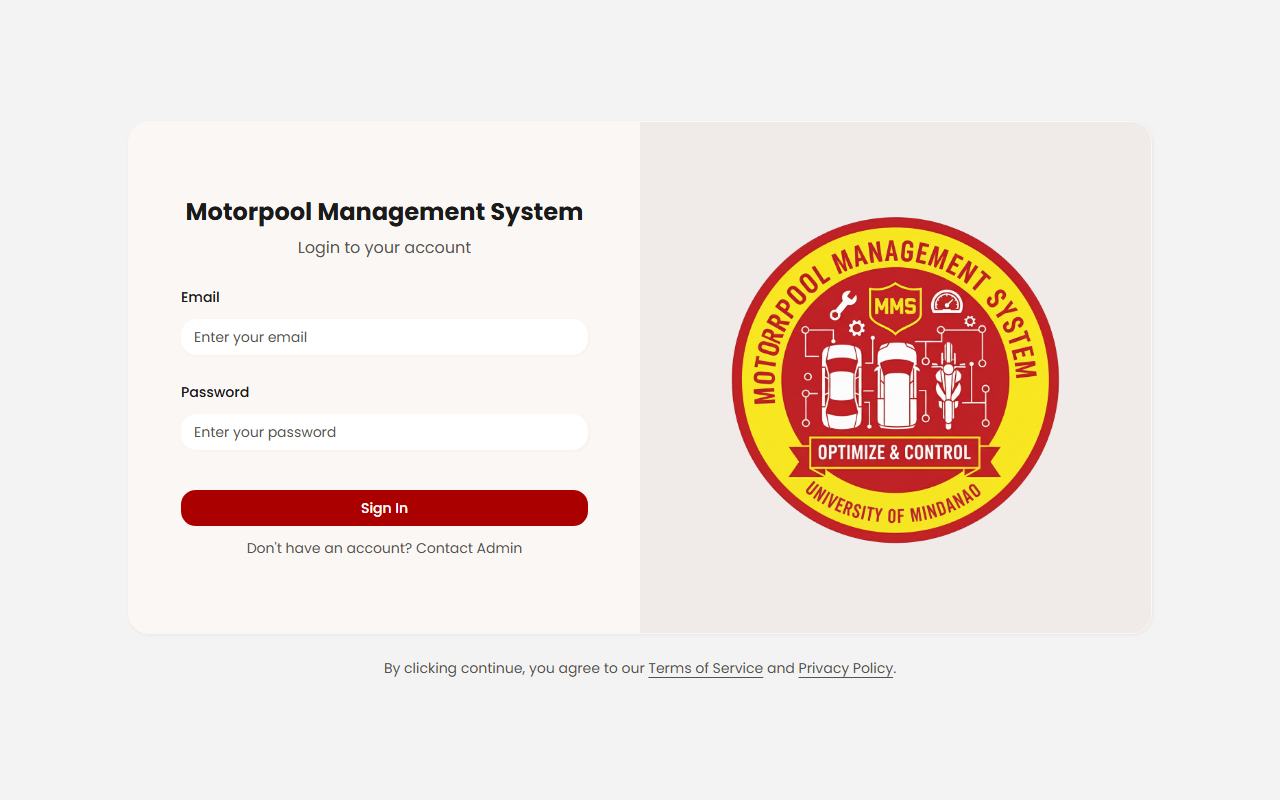
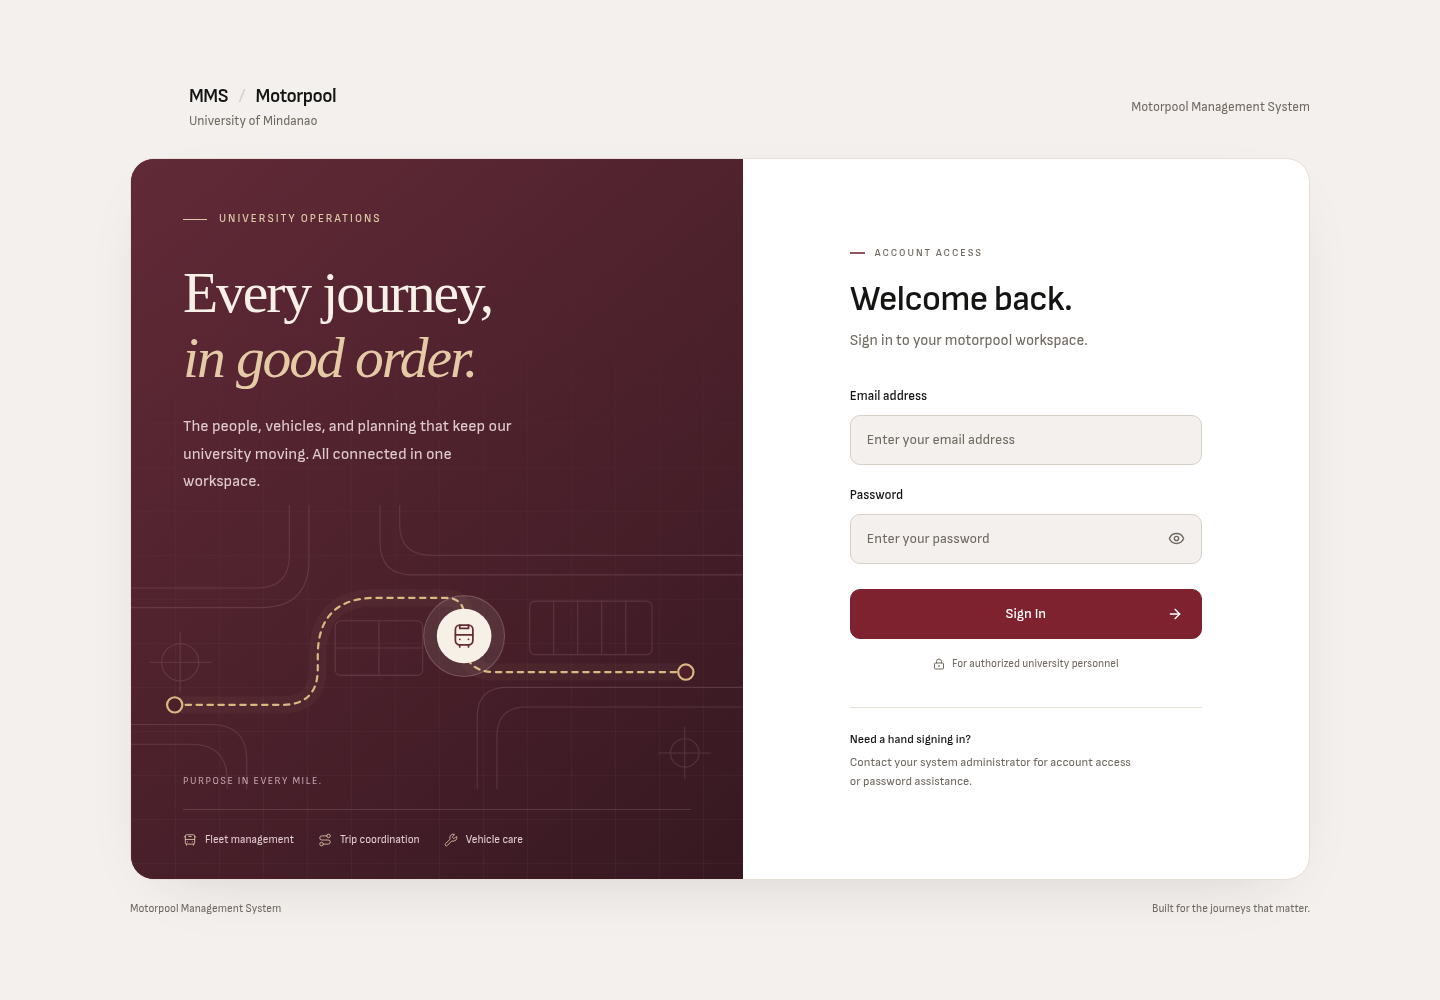
Refresh Motorpool project screenshot and live link

diff --git a/src/data/projects.ts b/src/data/projects.ts
@@ -59,7 +59,7 @@ export const projects: Project[] = [
     description:
       "A motorpool management system for the University of Mindanao that tracks, schedules, and dispatches the institution's vehicle fleet.",
     technologies: ["React", "Vite", "Tailwind"],
-    demoLink: "https://um-mms.vercel.app",
+    demoLink: "https://um-mms-web.vercel.app/",
   },
   {
     image: fitingym,
